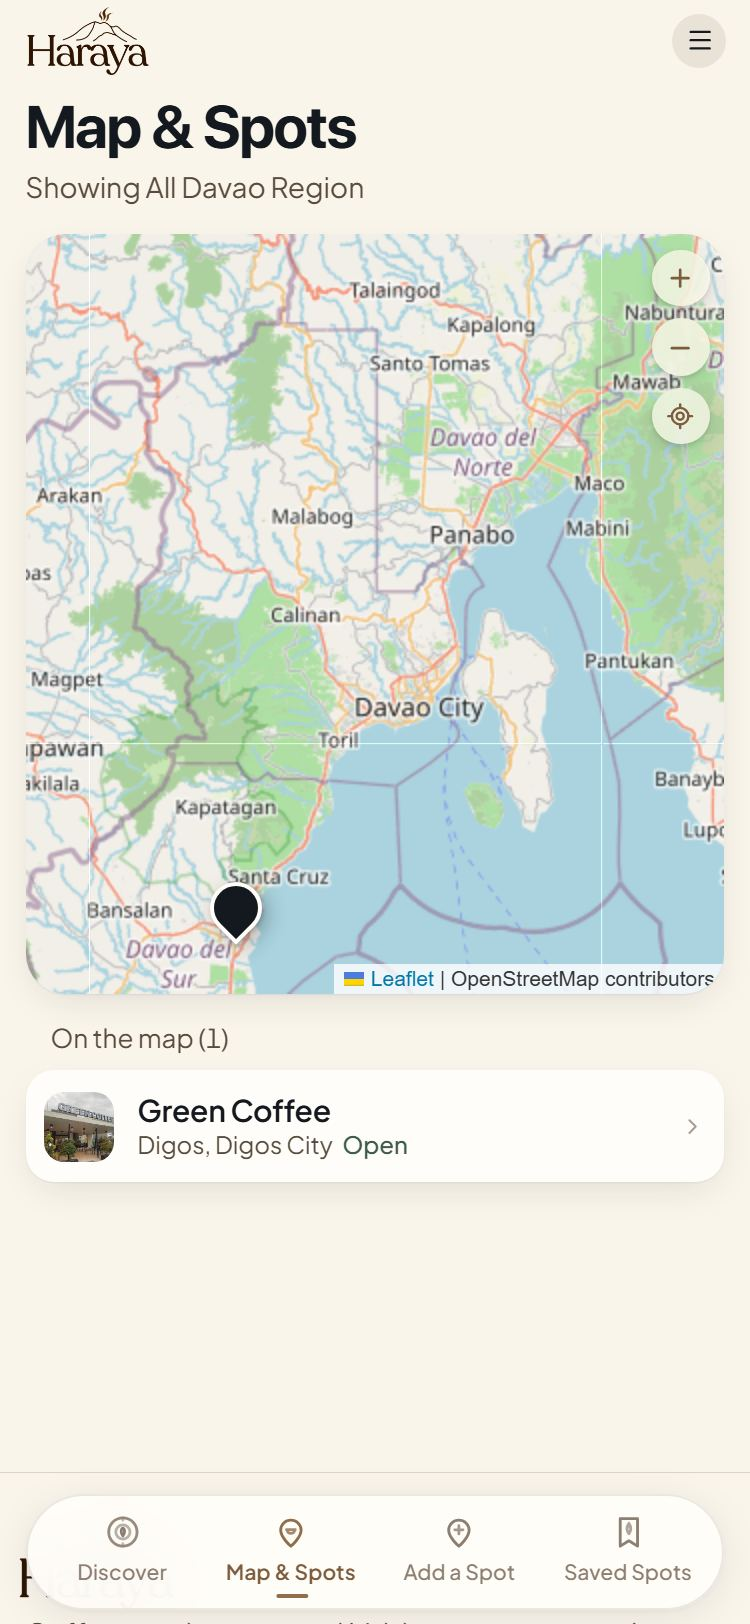
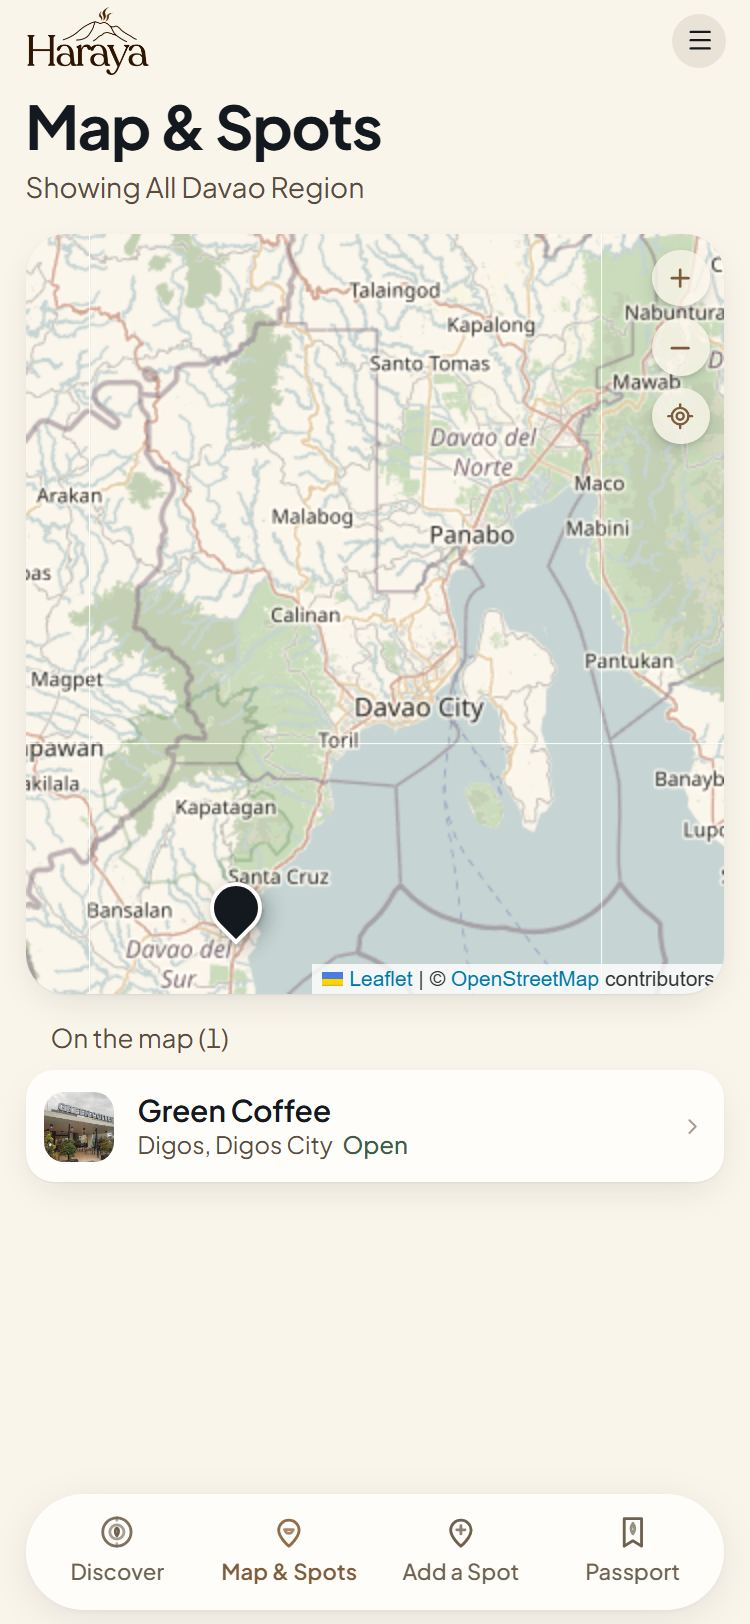
docs: design contract, journal and landing captures for the minimalist cleanup
Also fits all four dock labels at 320px.

diff --git a/src/components/layout/BottomTabBar.tsx b/src/components/layout/BottomTabBar.tsx
@@ -22,7 +22,7 @@ export const BottomTabBar: React.FC<BottomTabBarProps> = ({ activeTab, setActive
       <div className="dock relative mx-auto max-w-md pointer-events-auto">
         <div aria-hidden="true" className="dock-bar absolute inset-0 rounded-full" />
 
-        <div className="relative flex h-[58px] px-2 items-center">
+        <div className="relative flex h-[58px] px-1 items-center">
           {NAV_TABS.map((tab) => {
             const active = activeTab === tab.id;
             return (
@@ -48,7 +48,7 @@ export const BottomTabBar: React.FC<BottomTabBarProps> = ({ activeTab, setActive
                   )}
                 </span>
                 <span
-                  className={`ios-caption leading-[13px] max-w-full truncate px-1 transition-colors duration-200 ${
+                  className={`ios-caption leading-[13px] max-w-full truncate transition-colors duration-200 ${
                     active ? 'font-semibold text-tint-ink' : 'font-medium text-ink-3'
                   }`}
                 >

diff --git a/DESIGN.md b/DESIGN.md
@@ -38,8 +38,8 @@ The tokens live in `src/index.css`; this file is the contract behind them.
   `AyaMascot`, using only the master palette (roast #574835, tan #997247, cream #FFF6EE, steam #E7AC67, coffee
   #FFC183, ink #1D1203). No outlines, gradients or mouth. One pose per surface so she reads as a character, not a
   sticker: `welcome` (WelcomeModal, first tour step), `mood` (Discover mood card, a profile-style card on `--ios-surface`: title, one line and a single tint pill
-  that opens the finder, no mood chips; Aya stands at the right like a portrait, clipped by the card's bottom edge with
-  her ears breaking out above its top, no glow, and she keeps this one pose in every card state while the copy and
+  that opens the finder, no mood chips; Aya stands at the right like a portrait at 124px, clipped by the card's bottom
+  edge with her ears breaking out 28px above its top, no glow, and she keeps this one pose in every card state while the copy and
   button follow real state: focus session in progress (Finish session), late evening, empty passport; tapping her
   opens the finder too; also Mood Finder idle), `empty` (cafe, bean, saved, visited and mood
   no-match empty states, Add a Spot title), `welcome` again on the live navigation arrival card; `drops` belongs to the
@@ -56,29 +56,40 @@ The tokens live in `src/index.css`; this file is the contract behind them.
 
 ## Color
 
-| Token | Value | Role |
-| --- | --- | --- |
-| `--ios-bg` | `#FAF5EB` | Canvas (grouped background) |
-| `--ios-surface` | `#FFFDF9` | Cards, grouped rows, sheets |
-| `--ios-fill` | `rgba(118, 96, 70, 0.12)` | Search fields, segmented track, chips |
-| `--ios-separator` | `rgba(89, 76, 61, 0.2)` | 0.5px hairlines |
-| `--ios-label` | `#13191F` | Primary text |
-| `--ios-label-2` | `#594C3D` | Secondary text (7.6:1 on canvas) |
-| `--ios-label-3` | `#6E6150` | Placeholder and tertiary text (at least 4.5:1) |
-| `--ios-tint` | `#906D4B` | Filled controls, active icons |
-| `--ios-tint-text` | `#7D5C3D` | Tinted text and links (5.6:1 on canvas) |
-| `--ios-green` | `#3E5C48` | Open now, success |
-| `--ios-red` | `#8C3A2E` | Closed, destructive |
+| Token | Utility | Value | Role |
+| --- | --- | --- | --- |
+| `--color-canvas` | `bg-canvas` | `#FAF5EB` | Canvas (grouped background) |
+| `--color-surface` | `bg-surface` | `#FFFDF9` | Cards, grouped rows, sheets, the dock, text on tint |
+| `--color-sunken` | `bg-sunken` | `#F2EAE0` | Pressed or recessed surface |
+| `--color-hairline` | `border-hairline` | `#E4D9C8` | Solid hairline where a 0.5px separator cannot be used |
+| `--color-ink` | `text-ink` | `#13191F` | Primary text |
+| `--color-ink-2` | `text-ink-2` | `#594C3D` | Secondary text (7.6:1 on canvas) |
+| `--color-ink-3` | `text-ink-3` | `#6E6150` | Placeholder, tertiary text, inactive tabs (at least 4.5:1) |
+| `--color-tint` | `bg-tint` | `#906D4B` | Filled controls, active icons |
+| `--color-tint-ink` | `text-tint-ink` | `#7D5C3D` | Tinted text and links (5.6:1 on canvas) |
+| `--color-shade` | `bg-shade/20` | `#766046` | Hover and pressed fills, only with an opacity modifier |
+| `--color-ok` | `text-ok` | `#3E5C48` | Open now, success |
+| `--color-danger` | `text-danger` | `#8C3A2E` | Closed, destructive |
+| `--color-star` | `fill-star` | `#CA9C68` | Rating stars; dots and focus rings on dark bands. Never text on light |
+| `--color-steam` | `text-steam` | `#E7AC67` | Steam accent on the dark focus banner |
+
+The tokens are one `@theme` block at the top of `src/index.css`. Components use the utilities, never raw hex.
+Raw hex remains only where a class cannot reach: the Aya and logo SVG art, Leaflet pin HTML, the Google button
+brand colors and the blue "You" dot. `--ios-fill` (12% shade) and `--ios-separator` stay as the resting fill
+and the 0.5px separator.
 
 Color is information. The tint marks the one active or primary thing in a region.
 
 ## Shape and depth
 
-- Radii: 10px controls, 14px grouped rows and inputs, 20px cards and hero, 28px sheets (top).
-- Cards have no border. They sit on `--ios-surface` with `ios-card-shadow` (a soft 1px
-  plus 8px offset shadow).
-- Materials: `ios-material-bar` for nav and tab bars (78% linen, blur 20px, saturate 180%);
-  `ios-material-dark` for controls over photos (black 35%, blur 12px).
+- Radii: `rounded-control` 10px, `rounded-row` 14px (grouped rows, inputs, notices), `rounded-card` 20px (cards and
+  hero), `rounded-sheet` 28px (sheets). The segmented thumb is 8px, concentric inside its 10px track.
+- Cards have no border. They sit on `--color-surface` with `ios-card-shadow` (`--shadow-card`: 0.5px contact line
+  plus a soft 6px offset, 20px blur). Floating bars use `--shadow-float`, sheets `--shadow-sheet`.
+- Focus on fields is `focus:focus-ring`, a 2px tint ring.
+- Materials: `ios-material-bar` for the nav bar once content scrolls under it and for map overlays (78% linen, blur
+  20px, saturate 180%); `ios-material-dark` for controls over photos (black 35%, blur 12px). Sheet headers and the
+  tab dock are solid surface: translucent headers let tinted buttons show through while scrolling.
 - Hairlines are 0.5px (`ios-hairline-b`, `ios-hairline-t`), never 1px solid borders on chrome.
 
 ## Motion
@@ -95,20 +106,25 @@ Color is information. The tint marks the one active or primary thing in a region
   hairline once content scrolls under it.
 - **Large title:** each primary page opens with a left-aligned large title and one line of
   context (city picker on Discover).
-- **Tab bar (dock):** a floating bar, 64px tall with a 22px radius, inset 12px from the screen edges
-  above the safe area, on `--ios-surface` with a soft lifted shadow. The active tab sits on a tint arch
-  (`--ios-tint`, up to 68px wide): a semicircular top that rises 14px above the bar's top edge, straight
-  sides, and a base resting on the bar's bottom edge (8px corners so it stays inside the bar's radius on
-  narrow phones). It slides between tabs on `--ios-ease` (0.5s); its icon and label turn cream (#FFFDF9,
-  4.6:1 on the tint) and lift 5px to center in the arch. Inactive tabs use `--ios-label-3` (5.9:1 on the surface). Every tab
-  keeps its 24px icon and 10px label. Geometry is in px, not Tailwind spacing units, because the project
-  scales its spacing. No indicator lines.
+- **Tab bar (dock):** a floating pill, 58px tall, inset 16px from the screen edges above the safe area, on solid
+  `--color-surface` with `--shadow-float`. No border, no blur and no indicator line: the tint alone marks the
+  active tab (icon `--color-tint`, label `--color-tint-ink`, semibold). Inactive tabs use `--color-ink-3` (5.9:1).
+  Every tab keeps its 22px icon and 11px label; all four labels fit at 320px. The focus banner and toast offsets
+  in `index.css` assume the 58px height. Phones have no footer inside the app; the footer renders on the landing
+  page and from `lg` up, and Passport carries the Privacy Notice and Terms of Use rows.
 - **Segmented control:** fill track, white thumb that slides between segments.
+- **Filter panel** (`src/components/feed/VibeFilterBar.tsx`): Discover shows the segmented control, the spot count
+  and one filter button. The button opens an inline panel with Sort and Price menus and the must-have chips. Closed,
+  the panel shows only the choices in effect as chips that remove themselves, so nothing filters unseen. The badge
+  counts chips, a set price and a changed sort; Reset returns the sort to Newest too.
+- **Cafe card:** photo with the save button, name, area, price, open state and the viewer's own rating. No action
+  row: the whole card opens the spot sheet, where Directions is the one primary.
 - **Search field:** 36-40px tall, 10px radius, fill background, no border.
 - **Grouped list:** inset rows on `--ios-surface`, 14px radius container, hairline separators
   inset from the leading edge, chevron on navigable rows.
-- **Sheet:** grabber on phones, 28px top radius, header with a centered title and a round
-  close button.
+- **Sheet:** grabber on phones, 28px top radius, solid surface header with the title and a round close button.
+  A menu is one grouped list with category subheads, not a box per category. Shared group classes live in
+  `src/components/common/sheetStyles.ts`.
 - **Sanctuary passport** (spec `docs/superpowers/specs/2026-09-29-sanctuary-passport-and-focus-logs.md`):
   - Check-in sheet (`src/components/session/CheckInModal.tsx`): one fresh GPS fix, 120 m geofence. In range, two
     large rows: Start Focus Session (tint, the one primary) and Quick Stamp (fill). Out of range, the distance in
@@ -119,12 +135,13 @@ Color is information. The tint marks the one active or primary thing in a region
   - Passport stamp (`src/components/passport/PassportStamp.tsx`): double ring, spot name on the top arc, city on the
     bottom arc, cup mark and date. Stamped in `--ios-tint` (#906D4B) with an SVG turbulence filter for a worn
     woodblock edge and a small stable tilt; unvisited as a dotted ghost (#594C3D at 20%, lettering at 42%).
-  - Profile (`Your Passport`): three metrics (focus hours, sanctuaries, clinks) in tabular figures, a privacy
+  - Profile (tab and page both named `Passport`): three metrics (focus hours, sanctuaries, clinks) in tabular figures, a privacy
     switch (green when public), then Diary, Passport and Saved tabs. Account rows sit below the tabs.
   - Cup Clink (`CupClinkIcon`): two tipped cups; a filled tint wash marks a clink you sent.
 - **Mood finder** (`src/components/moodFinder/`): entry card on Discover, sheet with mood and must-have chips,
   describe field, location and weather group rows, result cards with the pick label as a dark-material pill on
-  the photo. Map routes draw a dotted tint line from a blue "You" dot (iOS location convention, the only blue in
+  the photo. Map tiles are OpenStreetMap, muted by the `haraya-tiles` filter (one tile layer in `src/components/map/tiles.ts`)
+  so pins carry the color. Map routes draw a dotted tint line from a blue "You" dot (iOS location convention, the only blue in
   the app: it means "your position").
 
 ## Touch and responsiveness

diff --git a/docs/CODE_MAP.md b/docs/CODE_MAP.md
@@ -1,6 +1,6 @@
 # CODE_MAP: Haraya Agent Navigation Map
 
-Generated 2026-09-29 : commit bfc6e4c : fingerprint 1d224138ba1fd0be
+Generated 2026-09-29 : commit 5e9867e : fingerprint 7936934e3f8713f1
 
 Regenerate with `npm run map:code`; verify staleness with `npm run map:code:check`.
 Never hand-edit: the generator owns this file.
@@ -12,10 +12,10 @@ All Davao Region content: cafes, roasteries, bean lots, drop batches, trails, an
 - `index.html` (30 lines) : . module: index.html
 - `scripts/generate-code-map.mjs` (212 lines) : One-line purpose per file, inferred from its path and leading doc comment.
 - `scripts/verify-google-auth.mjs` (109 lines) : scripts module: verify-google-auth
-- `src/App.tsx` (829 lines) : Older links: the roaster portal is now the Place Portal.
+- `src/App.tsx` (836 lines) : Older links: the roaster portal is now the Place Portal.
   - L69 : SharedList
   - L95 : App
-- `src/index.css` (825 lines) : src entry point
+- `src/index.css` (662 lines) : src entry point
 - `src/main.tsx` (41 lines) : src entry point
 - `vite.config.ts` (43 lines) : . module: vite.config
 
@@ -30,12 +30,12 @@ All Davao Region content: cafes, roasteries, bean lots, drop batches, trails, an
 ## src/components/cafe/
 
 - `src/components/cafe/BeanDetailModal.tsx` (201 lines) : Grouped list on the white sheet: the linen canvas tone lets the inset group read as a group.
-- `src/components/cafe/CafeDetailModal.tsx` (371 lines) : Grouped list on the white sheet: the linen canvas tone lets the inset group read as a group.
-  - L52 : AmenityBadges
-  - L74 : MenuSheet
-  - L102 : CafeDetailModalProps
-  - L124 : CafeDetailModal
-- `src/components/cafe/CafeRecentVisitors.tsx` (142 lines) : "Focused 2h 15m, Americano, quiet" or "Quick stamp"
+- `src/components/cafe/CafeDetailModal.tsx` (368 lines) : Full cafe detail: snap gallery, live open status, actions (directions, save, rate,
+  - L50 : AmenityBadges
+  - L72 : MenuSheet
+  - L99 : CafeDetailModalProps
+  - L121 : CafeDetailModal
+- `src/components/cafe/CafeRecentVisitors.tsx` (143 lines) : "Focused 2h 15m, Americano, quiet" or "Quick stamp"
 - `src/components/cafe/RateCafeModal.tsx` (134 lines) : src/components/cafe module: RateCafeModal
 
 ## src/components/common/
@@ -53,6 +53,7 @@ All Davao Region content: cafes, roasteries, bean lots, drop batches, trails, an
 - `src/components/common/FormControls.tsx` (272 lines) : Shared form primitives for Haraya: an iOS-style sheet (bottom sheet with a
 - `src/components/common/ImageUploadField.tsx` (83 lines) : File input that stores the image as a dataURL with type and size validation.
 - `src/components/common/LargeTitle.tsx` (46 lines) : iOS large title: the first thing on every primary page, left aligned.
+- `src/components/common/sheetStyles.ts` (8 lines) : Class strings shared by sheets, so every grouped list and section label inside a sheet matches.
 - `src/components/common/WelcomeModal.tsx` (160 lines) : What the app does, stated plainly: one row per real surface.
 
 ## src/components/community/
@@ -60,7 +61,7 @@ All Davao Region content: cafes, roasteries, bean lots, drop batches, trails, an
 - `src/components/community/CommentsSheet.tsx` (75 lines) : Comments for a cup post; seed posts are read-only, browser posts are live.
 - `src/components/community/CupCheckCard.tsx` (114 lines) : Community cup post: photo with floating tasting-tag pins, brew method, likes.
 - `src/components/community/FlavorPinPlacer.tsx` (132 lines) : Tap the uploaded photo to drop tasting-tag pins, then name each pin. Pins
-- `src/components/community/LocationPicker.tsx` (115 lines) : Pin placement for Add a Spot: tap the map, or use the device location. The location is read once on
+- `src/components/community/LocationPicker.tsx` (113 lines) : Pin placement for Add a Spot: tap the map, or use the device location. The location is read once on
 - `src/components/community/NewPostSheet.tsx` (143 lines) : Compose a Cup Check: photo, caption, cafe tag, brew method, and flavor pins.
 
 ## src/components/drops/
@@ -74,14 +75,14 @@ All Davao Region content: cafes, roasteries, bean lots, drop batches, trails, an
 ## src/components/feed/
 
 - `src/components/feed/BeanGrid.tsx` (113 lines) : src/components/feed module: BeanGrid
-- `src/components/feed/CafeGrid.tsx` (163 lines) : src/components/feed module: CafeGrid
+- `src/components/feed/CafeGrid.tsx` (149 lines) : src/components/feed module: CafeGrid
 - `src/components/feed/EditorialHero.tsx` (126 lines) : Spotlight shelf built only from real listings: the top study spots, then the newest hidden gems added
-- `src/components/feed/FeedControls.tsx` (150 lines) : src/components/feed module: FeedControls
+- `src/components/feed/FeedControls.tsx` (103 lines) : src/components/feed module: FeedControls
 - `src/components/feed/FeedSearchBar.tsx` (38 lines) : iOS search field: filled, borderless, with the round clear button once text is entered.
 - `src/components/feed/PopularPicksSection.tsx` (73 lines) : "Most saved" shelf: the venues Haraya users bookmark most, from real save counts.
 - `src/components/feed/spotCategories.test.ts` (79 lines) : src/components/feed module: spotCategories.test
 - `src/components/feed/spotCategories.ts` (51 lines) : What a visitor is looking for; replaces the old Cafes / Beans / Following modes.
-- `src/components/feed/VibeFilterBar.tsx` (68 lines) : Collapsible amenity and vibe chip rail: expands when toggled or active.
+- `src/components/feed/VibeFilterBar.tsx` (152 lines) : The filter panel under the feed controls. Open: sort and price menus, then the must-have chip rail.
 
 ## src/components/install/
 
@@ -96,21 +97,22 @@ All Davao Region content: cafes, roasteries, bean lots, drop batches, trails, an
 
 ## src/components/layout/
 
-- `src/components/layout/BottomTabBar.tsx` (75 lines) : Persistent mobile bottom navigation (hidden while a detail modal is open).
-- `src/components/layout/FooterSection.tsx` (152 lines) : Global footer: Responsive layout tailored for both mobile and desktop.
+- `src/components/layout/BottomTabBar.tsx` (66 lines) : Persistent mobile bottom navigation (hidden while a detail modal is open).
+- `src/components/layout/FooterSection.tsx` (111 lines) : Footer for the landing page and the desktop app shell. Phones see the brand line and the legal row
 - `src/components/layout/NavigationDrawer.tsx` (223 lines) : Leading icon of a grouped row: a 30px tinted rounded square.
 - `src/components/layout/NavigationHeader.tsx` (217 lines) : Tab ids reachable by hash route but not shown in the primary navigation.
 
 ## src/components/map/
 
-- `src/components/map/DavaoCoffeeMap.tsx` (606 lines) : Escapes catalog text before it is placed into Leaflet tooltip HTML.
-  - L34 : DavaoCoffeeMapProps
-  - L50 : DavaoCoffeeMap
+- `src/components/map/DavaoCoffeeMap.tsx` (604 lines) : Escapes catalog text before it is placed into Leaflet tooltip HTML.
+  - L35 : DavaoCoffeeMapProps
+  - L51 : DavaoCoffeeMap
 - `src/components/map/DirectionsActionSheet.tsx` (58 lines) : External map apps. Apple Maps uses its https form so the link also works outside Apple devices.
 - `src/components/map/liveNavMath.test.ts` (71 lines) : src/components/map module: liveNavMath.test
 - `src/components/map/liveNavMath.ts` (63 lines) : Pure math for in-app walking navigation. These straight-line figures are the fallback when no street route
 - `src/components/map/routeMath.test.ts` (53 lines) : src/components/map module: routeMath.test
 - `src/components/map/routeMath.ts` (63 lines) : Pure math for following a street route: snap the visitor onto the nearest route segment, measure what is
+- `src/components/map/tiles.ts` (11 lines) : The one map tile layer, shared by the coffee map and the location picker.
 - `src/components/map/useLiveNavigation.ts` (129 lines) : Walking navigation driven by navigator.geolocation.watchPosition with high accuracy. Positions stay in
 - `src/components/map/walkingRoute.ts` (110 lines) : Street-following walking routes from the FOSSGIS OSRM server (OpenStreetMap data, foot profile, no key).
 
@@ -292,7 +294,7 @@ All Davao Region content: cafes, roasteries, bean lots, drop batches, trails, an
 - `src/views/PlacePortalView.tsx` (680 lines) : What the portal offers, for visitors who are not signed in or have not applied.
   - L27 : PlacePortalViewProps
   - L583 : PlacePortalView
-- `src/views/ProfileView.tsx` (736 lines) : Leading icon of a grouped row: a 30px tinted rounded square.
+- `src/views/ProfileView.tsx` (750 lines) : Leading icon of a grouped row: a 30px tinted rounded square.
   - L27 : ProfileSection
   - L29 : ProfileViewProps
   - L140 : StampEntry

diff --git a/journal/2026-09-29.md b/journal/2026-09-29.md
@@ -560,3 +560,29 @@ reference layout in Haraya's identity; real app screenshots in the phone mockups
   `navigateFallbackDenylist` keeps real files from being answered with `index.html`; an offline browser-tab
   visit skips the landing page so OfflineNotice explains the state; the install sheet resets when it closes;
   more `installPlatform` cases (TikTok, LINE, unavailable mode).
+
+## [2026-09-29] Minimalist cleanup
+
+- Plan: `docs/superpowers/plans/2026-09-29-minimalist-cleanup.md`, on branch `ui/minimal-cleanup`.
+- Tokens: one `@theme` block in `src/index.css` (14 colors, 4 radii, 3 shadows, `focus-ring`). 772 hex utilities in
+  41 live files now use token names; the zinc and amber remap, the `--color-brand-*` block, unread `--ios-*`
+  variables and 27 unused helper classes are removed. Hidden feature files (drops, roaster, community, SavedView,
+  CommunityView, BeanDetailModal) are untouched.
+- Sheets: the header is solid surface, so buttons no longer show through while scrolling. Group classes are shared
+  from `sheetStyles.ts`. The spot sheet menu is one grouped list with category subheads.
+- Shell: phones have no footer inside the app; Passport has Privacy Notice and Terms of Use rows. The dock is solid,
+  without the indicator line, with inactive tabs at 5.9:1. The tab is named Passport, matching its page.
+- Discover: sort and price moved into the filter panel; choices in effect show as removable chips when the panel is
+  closed; Reset also resets the sort. Cafe cards lost the action row. The mood card is about 45px shorter.
+- Map: both maps share one tile layer, muted with a CSS filter. No new host, no CSP change.
+- Scales: radii snapped to control, row, card and sheet; sub-11px text in live files raised to 11px.
+- Kept from the plan as is: the amber dots and focus rings on the landing page's dark band stay amber, because the
+  tint is too dark to read there.
+- Verified: `npm run build` passed, `npm test` 164/164, oxlint clean, `map:code:check` current. Playwright against
+  `npm run preview` at 320, 375 and 1280 over Discover, Map, Add a Spot, Passport, Sign in and Privacy: 0 px
+  horizontal overflow, 0 page errors, no footer under 1024px, no clipped dock labels. Sheet header background is
+  solid `rgb(255, 253, 249)` when scrolled. Closing the filter panel with Nearest and a price set shows both chips.
+  Landing captures re-taken (375x812 at 2x, JPEG 78). Evidence in
+  `reports/ui-verification/2026-09-29-minimal-cleanup/`.
+- Not verified: signed-in screens, the Place Portal and Control Room with data, the real sign-in and Add a Spot
+  forms (the preview has no Supabase config), and tile filter performance while panning on a low-end phone.
